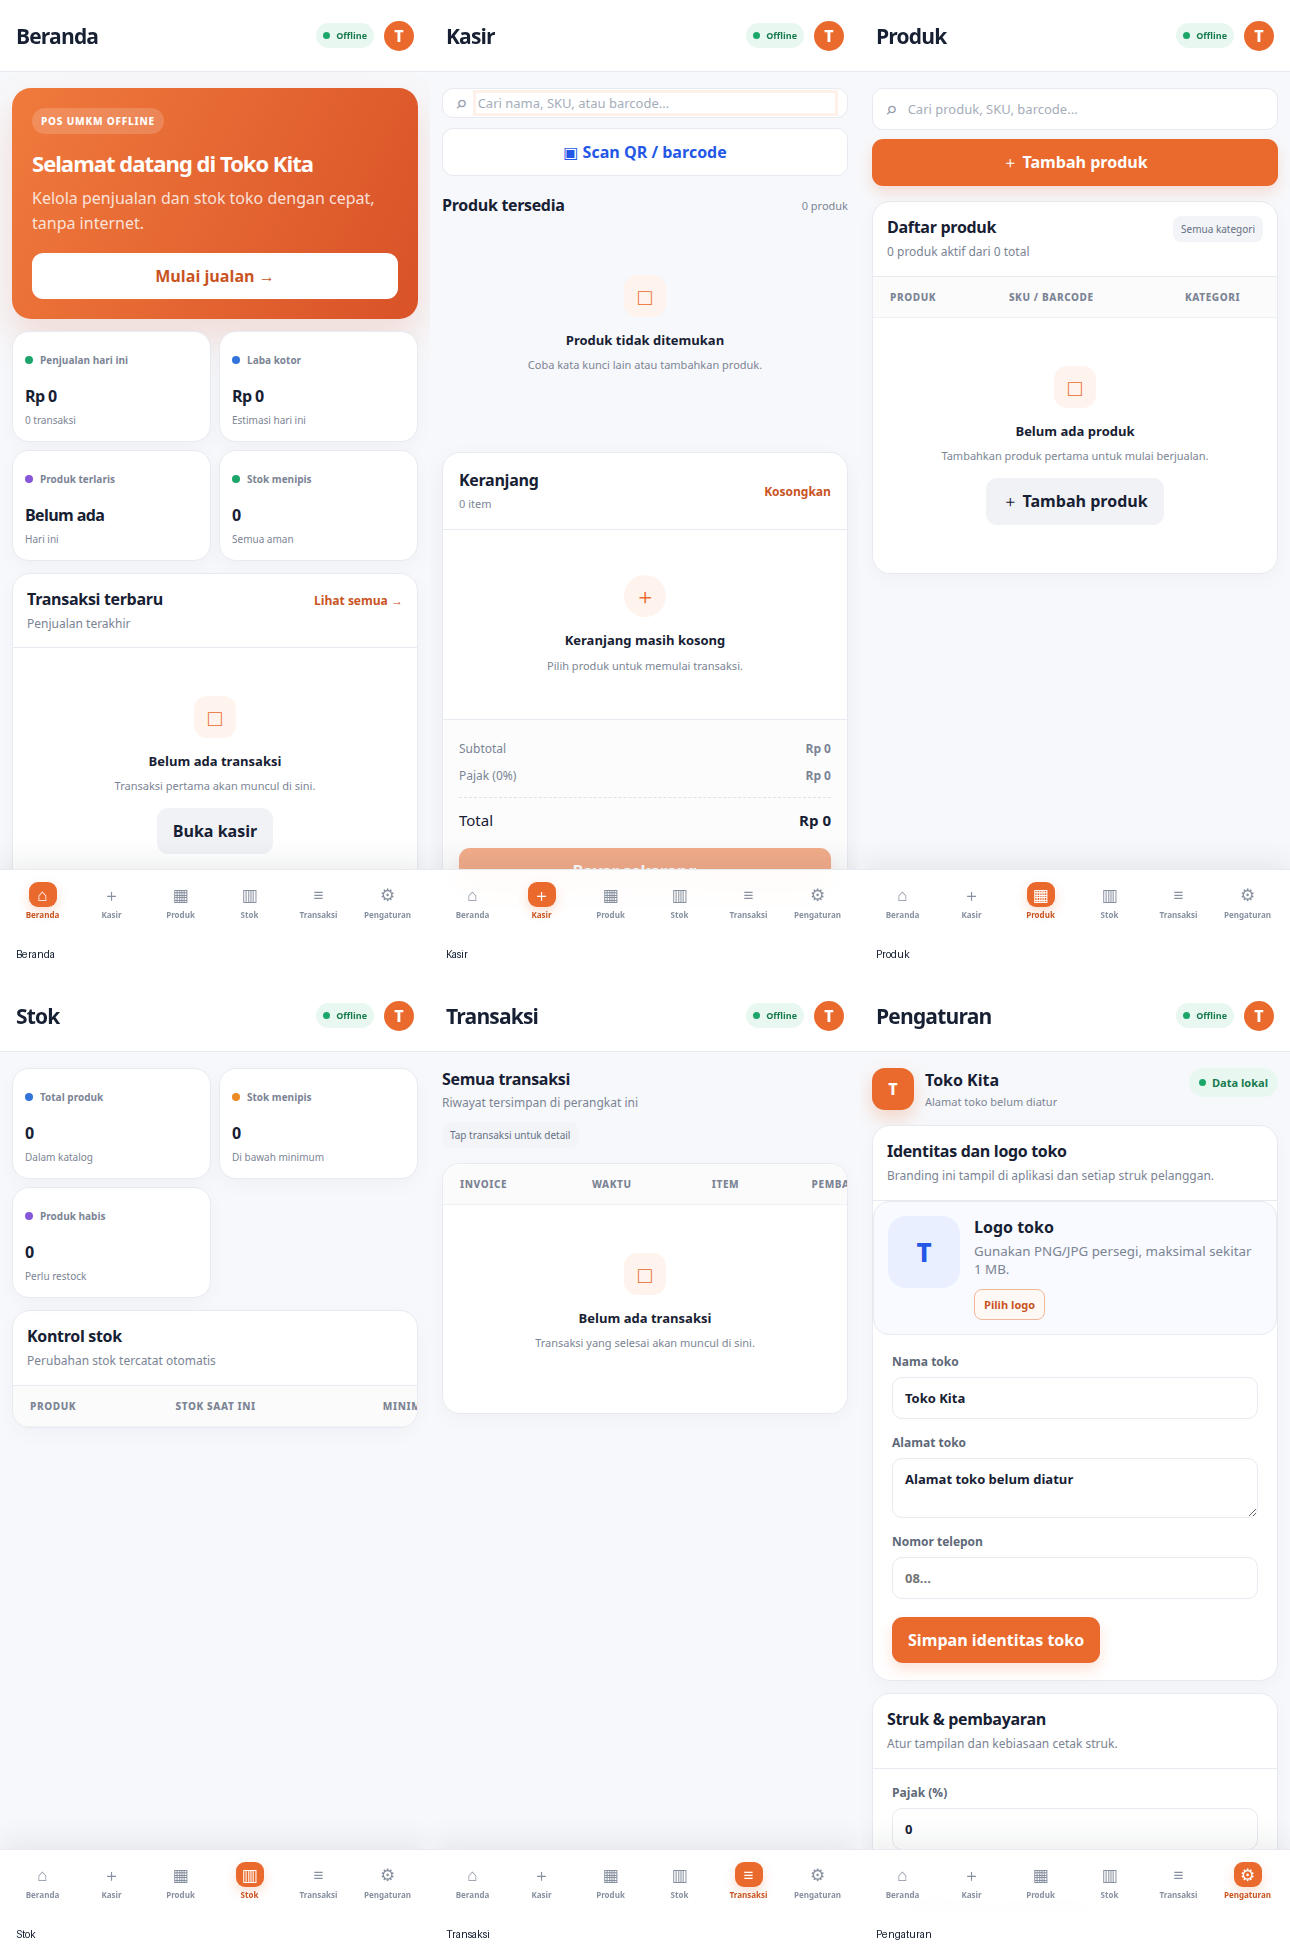
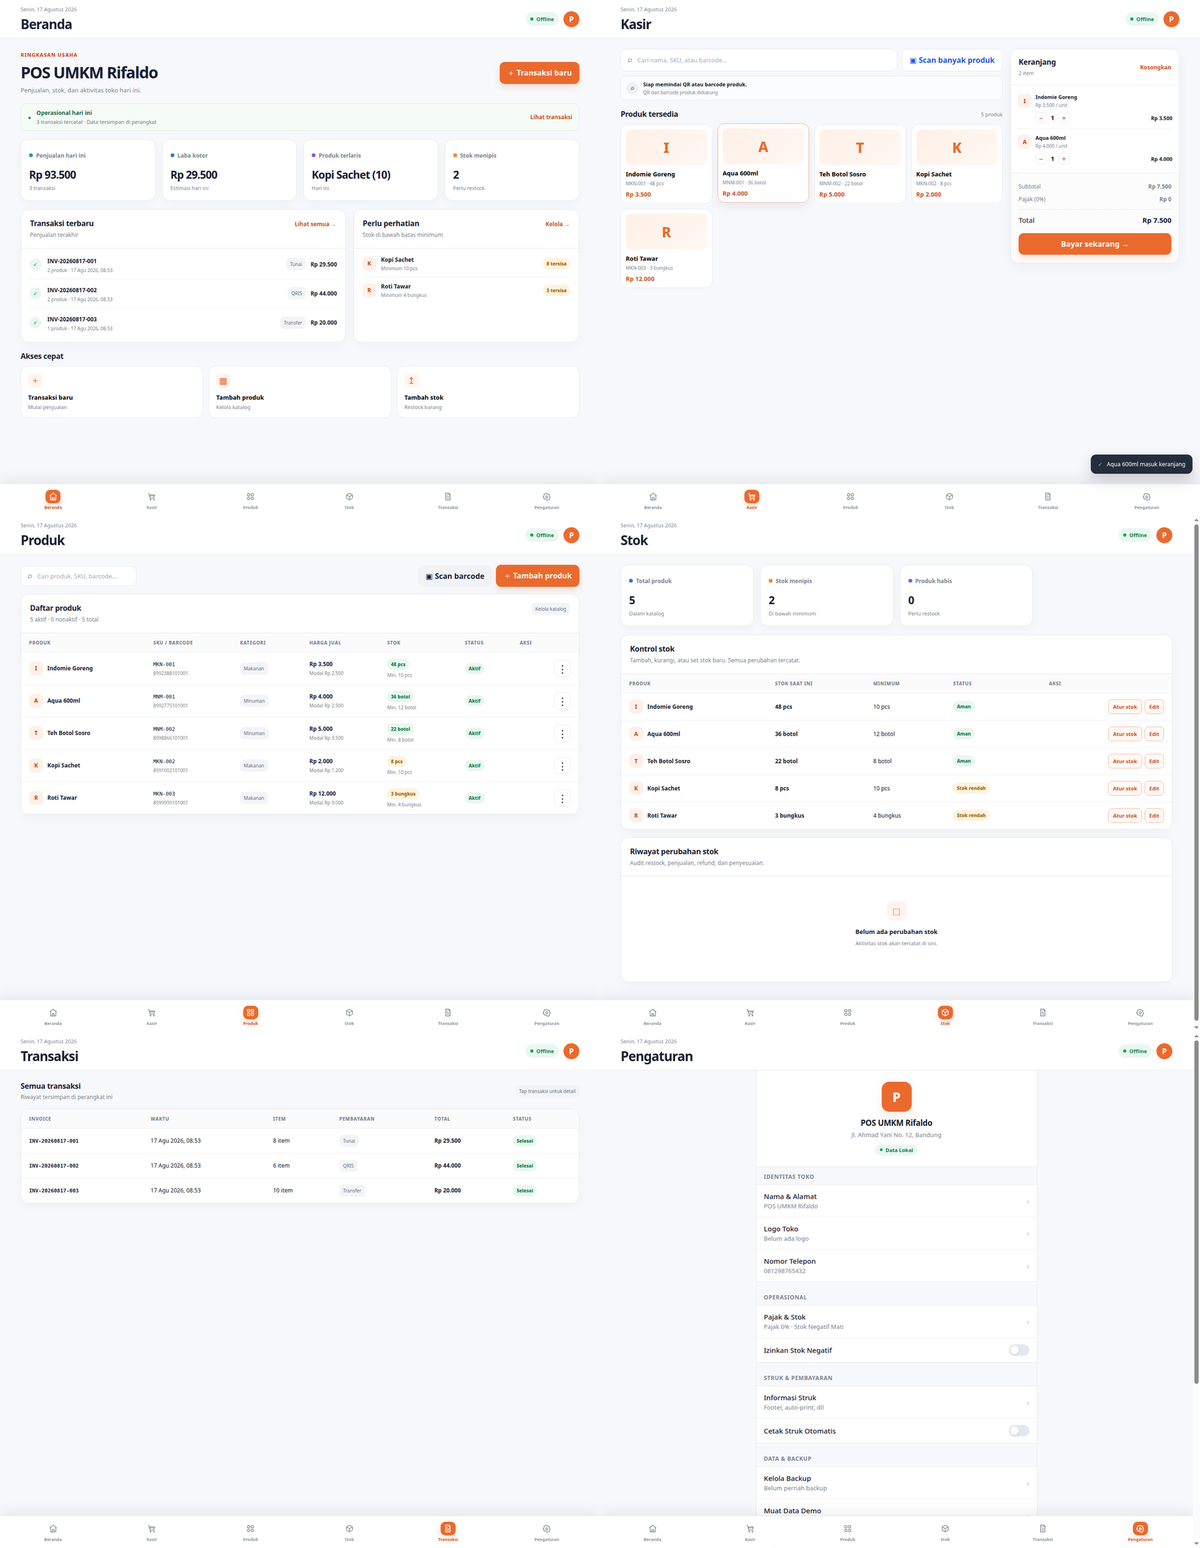
docs: update all README screenshots and gallery with rich dummy data visuals (v2.0.0)

diff --git a/src/storage.ts b/src/storage.ts
@@ -1,12 +1,12 @@
 import { Capacitor } from '@capacitor/core'
-import type { BackupFile, Category, Customer, Expense, PosState, Product, StockMovement, StoreSettings, Transaction } from './types'
+import type { BackupFile, Category, PosState, Product, Transaction } from './types'
 
 const STORAGE_KEY = 'offline-pos-state-v1'
 const DB_NAME = 'offline_pos'
 const DB_VERSION = 1
 
-const now = () => new Date().toISOString()
-const id = (prefix: string) => `${prefix}_${crypto.randomUUID()}`
+export const timestamp = () => new Date().toISOString()
+export const newId = (prefix: string) => `${prefix}_${crypto.randomUUID()}`
 
 const demoCategories: Category[] = [
   { id: 'cat-food', name: 'Makanan', color: '#f59e0b' },
@@ -15,11 +15,64 @@ const demoCategories: Category[] = [
 ]
 
 const demoProducts: Product[] = [
-  { id: 'prod-indomie', sku: 'MKN-001', barcode: '8992388101001', name: 'Indomie Goreng', categoryId: 'cat-food', purchasePrice: 2500, sellingPrice: 3500, stock: 48, minimumStock: 10, unit: 'pcs', isActive: true, createdAt: now(), updatedAt: now() },
-  { id: 'prod-aqua', sku: 'MNM-001', barcode: '8992775101001', name: 'Aqua 600ml', categoryId: 'cat-drink', purchasePrice: 2500, sellingPrice: 4000, stock: 36, minimumStock: 12, unit: 'botol', isActive: true, createdAt: now(), updatedAt: now() },
-  { id: 'prod-teh', sku: 'MNM-002', barcode: '8998866101001', name: 'Teh Botol Sosro', categoryId: 'cat-drink', purchasePrice: 3500, sellingPrice: 5000, stock: 22, minimumStock: 8, unit: 'botol', isActive: true, createdAt: now(), updatedAt: now() },
-  { id: 'prod-kopi', sku: 'MKN-002', barcode: '8991002101001', name: 'Kopi Sachet', categoryId: 'cat-food', purchasePrice: 1200, sellingPrice: 2000, stock: 8, minimumStock: 10, unit: 'pcs', isActive: true, createdAt: now(), updatedAt: now() },
-  { id: 'prod-roti', sku: 'MKN-003', barcode: '8999999101001', name: 'Roti Tawar', categoryId: 'cat-food', purchasePrice: 9000, sellingPrice: 12000, stock: 0, minimumStock: 4, unit: 'bungkus', isActive: true, createdAt: now(), updatedAt: now() },
+  { id: 'prod-indomie', sku: 'MKN-001', barcode: '8992388101001', name: 'Indomie Goreng', categoryId: 'cat-food', purchasePrice: 2500, sellingPrice: 3500, stock: 48, minimumStock: 10, unit: 'pcs', isActive: true, createdAt: timestamp(), updatedAt: timestamp() },
+  { id: 'prod-aqua', sku: 'MNM-001', barcode: '8992775101001', name: 'Aqua 600ml', categoryId: 'cat-drink', purchasePrice: 2500, sellingPrice: 4000, stock: 36, minimumStock: 12, unit: 'botol', isActive: true, createdAt: timestamp(), updatedAt: timestamp() },
+  { id: 'prod-teh', sku: 'MNM-002', barcode: '8998866101001', name: 'Teh Botol Sosro', categoryId: 'cat-drink', purchasePrice: 3500, sellingPrice: 5000, stock: 22, minimumStock: 8, unit: 'botol', isActive: true, createdAt: timestamp(), updatedAt: timestamp() },
+  { id: 'prod-kopi', sku: 'MKN-002', barcode: '8991002101001', name: 'Kopi Sachet', categoryId: 'cat-food', purchasePrice: 1200, sellingPrice: 2000, stock: 8, minimumStock: 10, unit: 'pcs', isActive: true, createdAt: timestamp(), updatedAt: timestamp() },
+  { id: 'prod-roti', sku: 'MKN-003', barcode: '8999999101001', name: 'Roti Tawar', categoryId: 'cat-food', purchasePrice: 9000, sellingPrice: 12000, stock: 3, minimumStock: 4, unit: 'bungkus', isActive: true, createdAt: timestamp(), updatedAt: timestamp() },
+]
+
+const demoTransactions: Transaction[] = [
+  {
+    id: 'trx-1',
+    invoiceNumber: 'INV-20260817-001',
+    items: [
+      { productId: 'prod-indomie', name: 'Indomie Goreng', sku: 'MKN-001', price: 3500, cost: 2500, quantity: 5, discount: 0, subtotal: 17500 },
+      { productId: 'prod-aqua', name: 'Aqua 600ml', sku: 'MNM-001', price: 4000, cost: 2500, quantity: 3, discount: 0, subtotal: 12000 },
+    ],
+    subtotal: 29500,
+    discount: 0,
+    tax: 0,
+    total: 29500,
+    paidAmount: 50000,
+    changeAmount: 20500,
+    paymentMethod: 'Tunai',
+    status: 'completed',
+    createdAt: timestamp(),
+  },
+  {
+    id: 'trx-2',
+    invoiceNumber: 'INV-20260817-002',
+    items: [
+      { productId: 'prod-teh', name: 'Teh Botol Sosro', sku: 'MNM-002', price: 5000, cost: 3500, quantity: 4, discount: 0, subtotal: 20000 },
+      { productId: 'prod-roti', name: 'Roti Tawar', sku: 'MKN-003', price: 12000, cost: 9000, quantity: 2, discount: 0, subtotal: 24000 },
+    ],
+    subtotal: 44000,
+    discount: 0,
+    tax: 0,
+    total: 44000,
+    paidAmount: 50000,
+    changeAmount: 6000,
+    paymentMethod: 'QRIS',
+    status: 'completed',
+    createdAt: timestamp(),
+  },
+  {
+    id: 'trx-3',
+    invoiceNumber: 'INV-20260817-003',
+    items: [
+      { productId: 'prod-kopi', name: 'Kopi Sachet', sku: 'MKN-002', price: 2000, cost: 1200, quantity: 10, discount: 0, subtotal: 20000 },
+    ],
+    subtotal: 20000,
+    discount: 0,
+    tax: 0,
+    total: 20000,
+    paidAmount: 20000,
+    changeAmount: 0,
+    paymentMethod: 'Transfer',
+    status: 'completed',
+    createdAt: timestamp(),
+  }
 ]
 
 export const createEmptyState = (): PosState => ({
@@ -30,7 +83,7 @@ export const createEmptyState = (): PosState => ({
   transactions: [],
   expenses: [],
   stockMovements: [],
-  settings: { storeName: 'Toko Kita', storeLogo: '', storeAddress: 'Alamat toko belum diatur', storePhone: '', taxRate: 0, allowNegativeStock: false, theme: 'light', receiptFooter: 'Terima kasih sudah berbelanja', autoPrintReceipt: false },
+  settings: { storeName: 'POS UMKM Rifaldo', storeLogo: '', storeAddress: 'Jl. Ahmad Yani No. 12, Bandung', storePhone: '081298765432', taxRate: 0, allowNegativeStock: false, theme: 'light', receiptFooter: 'Terima kasih atas kunjungan Anda!', autoPrintReceipt: false },
 })
 
 const normalizeState = (value: PosState): PosState => ({ ...createEmptyState(), ...value, settings: { ...createEmptyState().settings, ...value.settings } })
@@ -39,6 +92,18 @@ const createSeedState = (): PosState => ({
   ...createEmptyState(),
   categories: demoCategories,
   products: demoProducts,
+  transactions: demoTransactions,
+  settings: {
+    storeName: 'POS UMKM Rifaldo',
+    storeLogo: '',
+    storeAddress: 'Jl. Ahmad Yani No. 12, Bandung',
+    storePhone: '081298765432',
+    taxRate: 0,
+    allowNegativeStock: false,
+    theme: 'light',
+    receiptFooter: 'Terima kasih atas kunjungan Anda!',
+    autoPrintReceipt: false,
+  },
 })
 
 let nativeDb: any = null
@@ -77,7 +142,7 @@ async function getNativeDb() {
       CREATE TABLE IF NOT EXISTS settings (key TEXT PRIMARY KEY NOT NULL, value TEXT NOT NULL);
       CREATE TABLE IF NOT EXISTS app_state (key TEXT PRIMARY KEY NOT NULL, value TEXT NOT NULL);
     `)
-    await nativeDb.run('INSERT OR IGNORE INTO schema_migrations (version, applied_at) VALUES (?, ?)', [DB_VERSION, now()])
+    await nativeDb.run('INSERT OR IGNORE INTO schema_migrations (version, applied_at) VALUES (?, ?)', [DB_VERSION, timestamp()])
     return nativeDb
   } catch (error) {
     console.warn('Native SQLite unavailable; using durable local fallback.', error)
@@ -90,7 +155,7 @@ export async function initializeStore(): Promise<PosState> {
   if (db) {
     const result = await db.query('SELECT value FROM app_state WHERE key = ?', ['pos_state'])
     if (result.values?.[0]?.value) return normalizeState(JSON.parse(result.values[0].value) as PosState)
-    const initial = createEmptyState()
+    const initial = createSeedState()
     await persistState(initial)
     return initial
   }
@@ -98,7 +163,7 @@ export async function initializeStore(): Promise<PosState> {
   if (stored) {
     try { return normalizeState(JSON.parse(stored) as PosState) } catch { localStorage.removeItem(STORAGE_KEY) }
   }
-  const initial = createEmptyState()
+  const initial = createSeedState()
   localStorage.setItem(STORAGE_KEY, JSON.stringify(initial))
   return initial
 }
@@ -119,7 +184,7 @@ export async function seedDemoData(): Promise<PosState> {
 }
 
 export function createBackup(state: PosState): BackupFile {
-  return { format: 'POS Backup', version: DB_VERSION, createdAt: now(), data: state }
+  return { format: 'POS Backup', version: DB_VERSION, createdAt: timestamp(), data: state }
 }
 
 export function parseBackup(raw: string): BackupFile {
@@ -129,7 +194,3 @@ export function parseBackup(raw: string): BackupFile {
   }
   return { ...parsed, data: normalizeState(parsed.data) }
 }
-
-export const newId = id
-export const timestamp = now
-export type { Category, Customer, Expense, PosState, Product, StockMovement, StoreSettings, Transaction }

diff --git a/src/App.tsx b/src/App.tsx
@@ -615,7 +615,7 @@ function SettingsPage({ state, onSave, onBackup, onSeed }: { state: PosState; on
           <div className="settings-row">
             <div className="settings-row-info">
               <span className="settings-row-label">Versi Aplikasi</span>
-              <span className="settings-row-value">1.5.0</span>
+              <span className="settings-row-value">2.0.0</span>
             </div>
           </div>
           <div className="settings-row">

diff --git a/README.md b/README.md
@@ -22,7 +22,7 @@ Layout mobile dirancang untuk kenyamanan kasir harian dengan bilah navigasi bawa
 
 ## Galeri semua menu
 
-Berikut adalah tampilan seluruh menu utama yang tersedia pada bottom navigation POS UMKM Rifaldo. Galeri ini menunjukkan keadaan awal aplikasi dengan data kosong agar setiap UMKM dapat melihat struktur layar sebelum mengatur toko dan memasukkan katalog mereka.
+Berikut adalah tampilan seluruh menu utama yang tersedia pada bottom navigation POS UMKM Rifaldo. Galeri ini menunjukkan tampilan aplikasi dengan data simulasi (*dummy data*) agar setiap UMKM dapat melihat gambaran operasional toko yang lengkap dan profesional.
 
 ![Galeri seluruh menu POS UMKM Rifaldo](docs/screenshots/menu-gallery.png)
 
